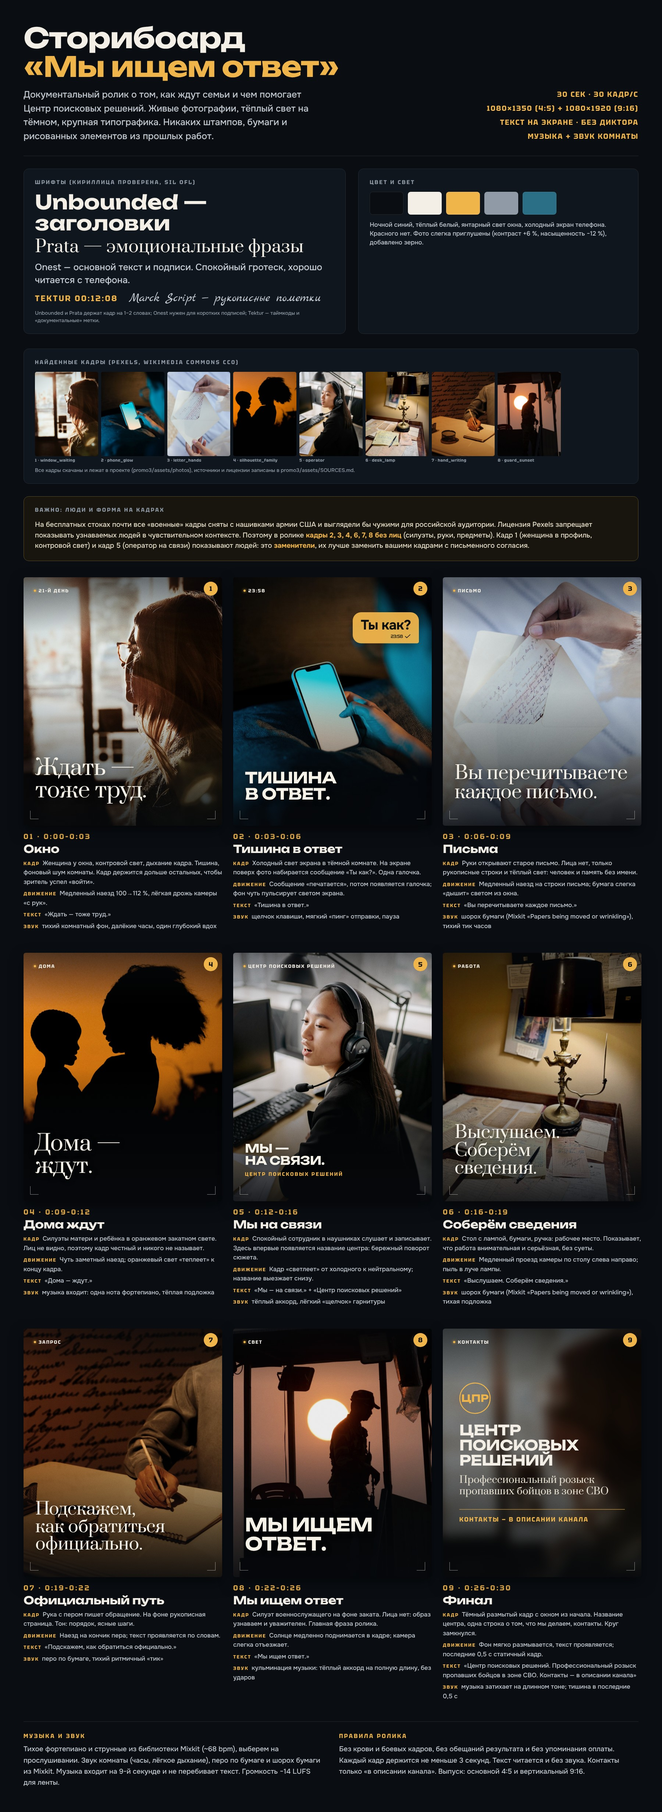
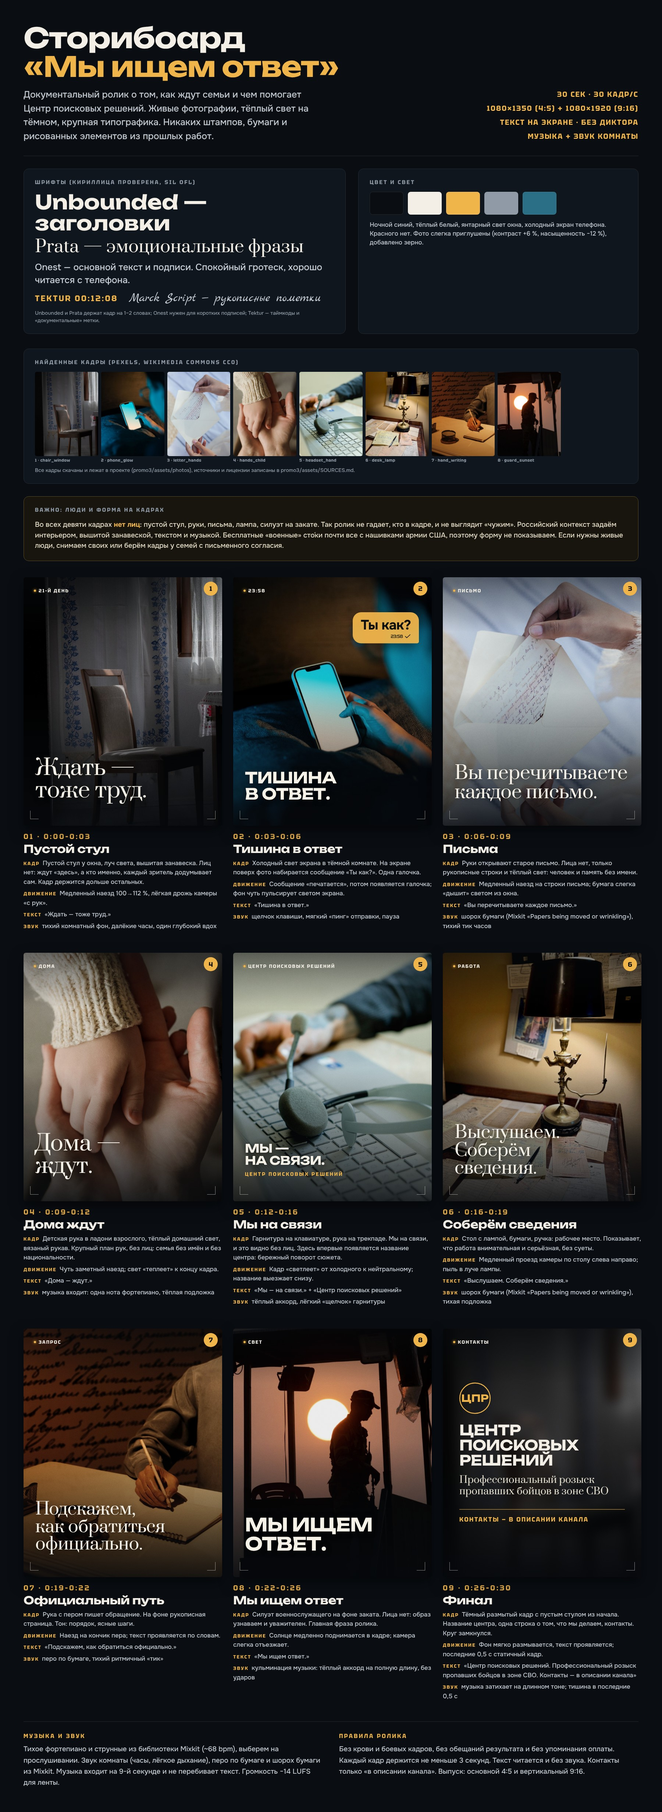
Storyboard v3: all frames faceless (empty chair, hands, headset, letter), sources updated
Claude-Session: https://claude.ai/code/session_01NuJDMPrCwZ36H1xaabvcxP

Changed region(s): [[0.0311, 0.5284, 0.6533, 0.715], [0.0311, 0.1865, 0.8711, 0.4974], [0.6533, 0.715, 0.9956, 0.8704]]

diff --git a/psr-promo/promo3/src/storyboard.html b/psr-promo/promo3/src/storyboard.html
@@ -45,16 +45,16 @@
 <div class="spec">30 СЕК · 30 КАДР/С<br>1080×1350 (4:5) + 1080×1920 (9:16)<br>ТЕКСТ НА ЭКРАНЕ · БЕЗ ДИКТОРА<br>МУЗЫКА + ЗВУК КОМНАТЫ</div></div>
 <div class="row"><div class="pan fonts"><h4>Шрифты (кириллица проверена, SIL OFL)</h4><div class="a">Unbounded — заголовки</div><div class="b">Prata — эмоциональные фразы</div><div class="c">Onest — основной текст и подписи. Спокойный гротеск, хорошо читается с телефона.</div><div class="d"><span>TEKTUR 00:12:08</span><i>Marck Script — рукописные пометки</i></div><div class="fl">Unbounded и Prata держат кадр на 1–2 словах; Onest нужен для коротких подписей; Tektur — таймкоды и «документальные» метки.</div></div>
 <div class="pan"><h4>Цвет и свет</h4><div class="sw"><i style="background:#0a0e13"></i><i style="background:#f3efe6"></i><i style="background:#f0b54a"></i><i style="background:#8f9aa6"></i><i style="background:#2a6f86"></i></div><div class="fl" style="margin-top:0;font-size:17px;color:#c2c9d1">Ночной синий, тёплый белый, янтарный свет окна, холодный экран телефона. Красного нет. Фото слегка приглушены (контраст +6 %, насыщенность −12 %), добавлено зерно.</div></div></div>
-<div class="pan" style="margin-bottom:34px"><h4>Найденные кадры (Pexels, Wikimedia Commons CC0)</h4><div class="th"><div><img src="/promo3/assets/photos/p_window_waiting.jpg"><small>1 · window_waiting</small></div><div><img src="/promo3/assets/photos/p_phone_glow.jpg"><small>2 · phone_glow</small></div><div><img src="/promo3/assets/photos/p_letter_hands.jpg"><small>3 · letter_hands</small></div><div><img src="/promo3/assets/photos/p_silhouette_family.jpg"><small>4 · silhouette_family</small></div><div><img src="/promo3/assets/photos/p_operator.jpg"><small>5 · operator</small></div><div><img src="/promo3/assets/photos/p_desk_lamp.jpg"><small>6 · desk_lamp</small></div><div><img src="/promo3/assets/photos/p_hand_writing.jpg"><small>7 · hand_writing</small></div><div><img src="/promo3/assets/photos/p_guard_sunset.jpg"><small>8 · guard_sunset</small></div></div><div class="fl">Все кадры скачаны и лежат в проекте (promo3/assets/photos), источники и лицензии записаны в promo3/assets/SOURCES.md.</div></div>
-<div class="pan warn" style="margin-bottom:44px"><h4>Важно: люди и форма на кадрах</h4><p>На бесплатных стоках почти все «военные» кадры сняты с нашивками армии США и выглядели бы чужими для российской аудитории. Лицензия Pexels запрещает показывать узнаваемых людей в чувствительном контексте. Поэтому в ролике <b>кадры 2, 3, 4, 6, 7, 8 без лиц</b> (силуэты, руки, предметы). Кадр 1 (женщина в профиль, контровой свет) и кадр 5 (оператор на связи) показывают людей: это <b>заменители</b>, их лучше заменить вашими кадрами с письменного согласия.</p></div>
-<div class="grid"><div class="cell"><div class="fw"><div class="num">1</div><div class="fr"><div class="ph" style="background-image:url(/promo3/assets/photos/p_window_waiting.jpg);background-position:60% 40%"></div><div class="sh"></div><svg class="gr" width="1080" height="1350"><filter id="n1"><feTurbulence type="fractalNoise" baseFrequency=".9" numOctaves="2" seed="1"/><feColorMatrix values="0 0 0 0 .5  0 0 0 0 .5  0 0 0 0 .5  0 0 0 1.4 -.3"/></filter><rect width="100%" height="100%" filter="url(#n1)"/></svg><div class="tc"><i></i>21-Й ДЕНЬ</div><div class="br"></div><div class="tx" style="bottom:130px"><div class="pr">Ждать —<br>тоже труд.</div></div></div></div>
-<div class="tm">01 · 0:00–0:03</div><h3>Окно</h3><p><b>КАДР</b>Женщина у окна, контровой свет, дыхание кадра. Тишина, фоновый шум комнаты. Кадр держится дольше остальных, чтобы зритель успел «войти».</p><p><b>ДВИЖЕНИЕ</b>Медленный наезд 100→112 %, лёгкая дрожь камеры «с рук».</p><p><b>ТЕКСТ</b>«Ждать — тоже труд.»</p><p><b>ЗВУК</b>тихий комнатный фон, далёкие часы, один глубокий вдох</p></div><div class="cell"><div class="fw"><div class="num">2</div><div class="fr"><div class="ph" style="background-image:url(/promo3/assets/photos/p_phone_glow.jpg);background-position:50% 50%"></div><div class="sh"></div><svg class="gr" width="1080" height="1350"><filter id="n2"><feTurbulence type="fractalNoise" baseFrequency=".9" numOctaves="2" seed="2"/><feColorMatrix values="0 0 0 0 .5  0 0 0 0 .5  0 0 0 0 .5  0 0 0 1.4 -.3"/></filter><rect width="100%" height="100%" filter="url(#n2)"/></svg><div class="tc"><i></i>23:58</div><div class="br"></div><div class="bubble" style="top:190px;right:70px">Ты как?<div class="m">23:58 <svg width="34" height="25" viewBox="0 0 34 25" fill="none" stroke="#f0b54a" stroke-width="3.4" stroke-linecap="round" stroke-linejoin="round"><path d="M4 13l8 8L30 4"/></svg></div></div><div class="tx" style="bottom:130px"><div class="ub">Тишина<br>в ответ.</div></div></div></div>
+<div class="pan" style="margin-bottom:34px"><h4>Найденные кадры (Pexels, Wikimedia Commons CC0)</h4><div class="th"><div><img src="/promo3/assets/photos/p_chair_window.jpg"><small>1 · chair_window</small></div><div><img src="/promo3/assets/photos/p_phone_glow.jpg"><small>2 · phone_glow</small></div><div><img src="/promo3/assets/photos/p_letter_hands.jpg"><small>3 · letter_hands</small></div><div><img src="/promo3/assets/photos/p_hands_child.jpg"><small>4 · hands_child</small></div><div><img src="/promo3/assets/photos/p_headset_hand.jpg"><small>5 · headset_hand</small></div><div><img src="/promo3/assets/photos/p_desk_lamp.jpg"><small>6 · desk_lamp</small></div><div><img src="/promo3/assets/photos/p_hand_writing.jpg"><small>7 · hand_writing</small></div><div><img src="/promo3/assets/photos/p_guard_sunset.jpg"><small>8 · guard_sunset</small></div></div><div class="fl">Все кадры скачаны и лежат в проекте (promo3/assets/photos), источники и лицензии записаны в promo3/assets/SOURCES.md.</div></div>
+<div class="pan warn" style="margin-bottom:44px"><h4>Важно: люди и форма на кадрах</h4><p>Во всех девяти кадрах <b>нет лиц</b>: пустой стул, руки, письма, лампа, силуэт на закате. Так ролик не гадает, кто в кадре, и не выглядит «чужим». Российский контекст задаём интерьером, вышитой занавеской, текстом и музыкой. Бесплатные «военные» сто́ки почти все с нашивками армии США, поэтому форму не показываем. Если нужны живые люди, снимаем своих или берём кадры у семей с письменного согласия.</p></div>
+<div class="grid"><div class="cell"><div class="fw"><div class="num">1</div><div class="fr"><div class="ph" style="background-image:url(/promo3/assets/photos/p_chair_window.jpg);background-position:50% 55%"></div><div class="sh"></div><svg class="gr" width="1080" height="1350"><filter id="n1"><feTurbulence type="fractalNoise" baseFrequency=".9" numOctaves="2" seed="1"/><feColorMatrix values="0 0 0 0 .5  0 0 0 0 .5  0 0 0 0 .5  0 0 0 1.4 -.3"/></filter><rect width="100%" height="100%" filter="url(#n1)"/></svg><div class="tc"><i></i>21-Й ДЕНЬ</div><div class="br"></div><div class="tx" style="bottom:130px"><div class="pr">Ждать —<br>тоже труд.</div></div></div></div>
+<div class="tm">01 · 0:00–0:03</div><h3>Пустой стул</h3><p><b>КАДР</b>Пустой стул у окна, луч света, вышитая занавеска. Лиц нет: ждут «здесь», а кто именно, каждый зритель додумывает сам. Кадр держится дольше остальных.</p><p><b>ДВИЖЕНИЕ</b>Медленный наезд 100→112 %, лёгкая дрожь камеры «с рук».</p><p><b>ТЕКСТ</b>«Ждать — тоже труд.»</p><p><b>ЗВУК</b>тихий комнатный фон, далёкие часы, один глубокий вдох</p></div><div class="cell"><div class="fw"><div class="num">2</div><div class="fr"><div class="ph" style="background-image:url(/promo3/assets/photos/p_phone_glow.jpg);background-position:50% 50%"></div><div class="sh"></div><svg class="gr" width="1080" height="1350"><filter id="n2"><feTurbulence type="fractalNoise" baseFrequency=".9" numOctaves="2" seed="2"/><feColorMatrix values="0 0 0 0 .5  0 0 0 0 .5  0 0 0 0 .5  0 0 0 1.4 -.3"/></filter><rect width="100%" height="100%" filter="url(#n2)"/></svg><div class="tc"><i></i>23:58</div><div class="br"></div><div class="bubble" style="top:190px;right:70px">Ты как?<div class="m">23:58 <svg width="34" height="25" viewBox="0 0 34 25" fill="none" stroke="#f0b54a" stroke-width="3.4" stroke-linecap="round" stroke-linejoin="round"><path d="M4 13l8 8L30 4"/></svg></div></div><div class="tx" style="bottom:130px"><div class="ub">Тишина<br>в ответ.</div></div></div></div>
 <div class="tm">02 · 0:03–0:06</div><h3>Тишина в ответ</h3><p><b>КАДР</b>Холодный свет экрана в тёмной комнате. На экране поверх фото набирается сообщение «Ты как?». Одна галочка.</p><p><b>ДВИЖЕНИЕ</b>Сообщение «печатается», потом появляется галочка; фон чуть пульсирует светом экрана.</p><p><b>ТЕКСТ</b>«Тишина в ответ.»</p><p><b>ЗВУК</b>щелчок клавиши, мягкий «пинг» отправки, пауза</p></div><div class="cell"><div class="fw"><div class="num">3</div><div class="fr"><div class="ph" style="background-image:url(/promo3/assets/photos/p_letter_hands.jpg);background-position:50% 40%"></div><div class="sh"></div><svg class="gr" width="1080" height="1350"><filter id="n3"><feTurbulence type="fractalNoise" baseFrequency=".9" numOctaves="2" seed="3"/><feColorMatrix values="0 0 0 0 .5  0 0 0 0 .5  0 0 0 0 .5  0 0 0 1.4 -.3"/></filter><rect width="100%" height="100%" filter="url(#n3)"/></svg><div class="tc"><i></i>ПИСЬМО</div><div class="br"></div><div class="tx" style="bottom:130px"><div class="pr" style="font-size:100px">Вы перечитываете<br>каждое письмо.</div></div></div></div>
-<div class="tm">03 · 0:06–0:09</div><h3>Письма</h3><p><b>КАДР</b>Руки открывают старое письмо. Лица нет, только рукописные строки и тёплый свет: человек и память без имени.</p><p><b>ДВИЖЕНИЕ</b>Медленный наезд на строки письма; бумага слегка «дышит» светом из окна.</p><p><b>ТЕКСТ</b>«Вы перечитываете каждое письмо.»</p><p><b>ЗВУК</b>шорох бумаги (Mixkit «Papers being moved or wrinkling»), тихий тик часов</p></div><div class="cell"><div class="fw"><div class="num">4</div><div class="fr"><div class="ph" style="background-image:url(/promo3/assets/photos/p_silhouette_family.jpg);background-position:50% 40%"></div><div class="sh"></div><svg class="gr" width="1080" height="1350"><filter id="n4"><feTurbulence type="fractalNoise" baseFrequency=".9" numOctaves="2" seed="4"/><feColorMatrix values="0 0 0 0 .5  0 0 0 0 .5  0 0 0 0 .5  0 0 0 1.4 -.3"/></filter><rect width="100%" height="100%" filter="url(#n4)"/></svg><div class="tc"><i></i>ДОМА</div><div class="br"></div><div class="tx" style="bottom:130px"><div class="pr">Дома —<br>ждут.</div></div></div></div>
-<div class="tm">04 · 0:09–0:12</div><h3>Дома ждут</h3><p><b>КАДР</b>Силуэты матери и ребёнка в оранжевом закатном свете. Лиц не видно, поэтому кадр честный и никого не называет.</p><p><b>ДВИЖЕНИЕ</b>Чуть заметный наезд; оранжевый свет «теплеет» к концу кадра.</p><p><b>ТЕКСТ</b>«Дома — ждут.»</p><p><b>ЗВУК</b>музыка входит: одна нота фортепиано, тёплая подложка</p></div><div class="cell"><div class="fw"><div class="num">5</div><div class="fr"><div class="ph" style="background-image:url(/promo3/assets/photos/p_operator.jpg);background-position:50% 30%"></div><div class="sh"></div><svg class="gr" width="1080" height="1350"><filter id="n5"><feTurbulence type="fractalNoise" baseFrequency=".9" numOctaves="2" seed="5"/><feColorMatrix values="0 0 0 0 .5  0 0 0 0 .5  0 0 0 0 .5  0 0 0 1.4 -.3"/></filter><rect width="100%" height="100%" filter="url(#n5)"/></svg><div class="tc"><i></i>ЦЕНТР ПОИСКОВЫХ РЕШЕНИЙ</div><div class="br"></div><div class="tx" style="bottom:130px"><div class="ub" style="font-size:64px">Мы —<br>на связи.</div><div class="sm">Центр поисковых решений</div></div></div></div>
-<div class="tm">05 · 0:12–0:16</div><h3>Мы на связи</h3><p><b>КАДР</b>Спокойный сотрудник в наушниках слушает и записывает. Здесь впервые появляется название центра: бережный поворот сюжета.</p><p><b>ДВИЖЕНИЕ</b>Кадр «светлеет» от холодного к нейтральному; название выезжает снизу.</p><p><b>ТЕКСТ</b>«Мы — на связи.» + «Центр поисковых решений»</p><p><b>ЗВУК</b>тёплый аккорд, лёгкий «щелчок» гарнитуры</p></div><div class="cell"><div class="fw"><div class="num">6</div><div class="fr"><div class="ph" style="background-image:url(/promo3/assets/photos/p_desk_lamp.jpg);background-position:50% 40%"></div><div class="sh"></div><svg class="gr" width="1080" height="1350"><filter id="n6"><feTurbulence type="fractalNoise" baseFrequency=".9" numOctaves="2" seed="6"/><feColorMatrix values="0 0 0 0 .5  0 0 0 0 .5  0 0 0 0 .5  0 0 0 1.4 -.3"/></filter><rect width="100%" height="100%" filter="url(#n6)"/></svg><div class="tc"><i></i>РАБОТА</div><div class="br"></div><div class="tx" style="bottom:130px"><div class="pr" style="font-size:94px">Выслушаем.<br>Соберём<br>сведения.</div></div></div></div>
+<div class="tm">03 · 0:06–0:09</div><h3>Письма</h3><p><b>КАДР</b>Руки открывают старое письмо. Лица нет, только рукописные строки и тёплый свет: человек и память без имени.</p><p><b>ДВИЖЕНИЕ</b>Медленный наезд на строки письма; бумага слегка «дышит» светом из окна.</p><p><b>ТЕКСТ</b>«Вы перечитываете каждое письмо.»</p><p><b>ЗВУК</b>шорох бумаги (Mixkit «Papers being moved or wrinkling»), тихий тик часов</p></div><div class="cell"><div class="fw"><div class="num">4</div><div class="fr"><div class="ph" style="background-image:url(/promo3/assets/photos/p_hands_child.jpg);background-position:50% 50%"></div><div class="sh"></div><svg class="gr" width="1080" height="1350"><filter id="n4"><feTurbulence type="fractalNoise" baseFrequency=".9" numOctaves="2" seed="4"/><feColorMatrix values="0 0 0 0 .5  0 0 0 0 .5  0 0 0 0 .5  0 0 0 1.4 -.3"/></filter><rect width="100%" height="100%" filter="url(#n4)"/></svg><div class="tc"><i></i>ДОМА</div><div class="br"></div><div class="tx" style="bottom:130px"><div class="pr">Дома —<br>ждут.</div></div></div></div>
+<div class="tm">04 · 0:09–0:12</div><h3>Дома ждут</h3><p><b>КАДР</b>Детская рука в ладони взрослого, тёплый домашний свет, вязаный рукав. Крупный план рук, без лиц: семья без имён и без национальности.</p><p><b>ДВИЖЕНИЕ</b>Чуть заметный наезд; свет «теплеет» к концу кадра.</p><p><b>ТЕКСТ</b>«Дома — ждут.»</p><p><b>ЗВУК</b>музыка входит: одна нота фортепиано, тёплая подложка</p></div><div class="cell"><div class="fw"><div class="num">5</div><div class="fr"><div class="ph" style="background-image:url(/promo3/assets/photos/p_headset_hand.jpg);background-position:50% 50%"></div><div class="sh"></div><svg class="gr" width="1080" height="1350"><filter id="n5"><feTurbulence type="fractalNoise" baseFrequency=".9" numOctaves="2" seed="5"/><feColorMatrix values="0 0 0 0 .5  0 0 0 0 .5  0 0 0 0 .5  0 0 0 1.4 -.3"/></filter><rect width="100%" height="100%" filter="url(#n5)"/></svg><div class="tc"><i></i>ЦЕНТР ПОИСКОВЫХ РЕШЕНИЙ</div><div class="br"></div><div class="tx" style="bottom:130px"><div class="ub" style="font-size:64px">Мы —<br>на связи.</div><div class="sm">Центр поисковых решений</div></div></div></div>
+<div class="tm">05 · 0:12–0:16</div><h3>Мы на связи</h3><p><b>КАДР</b>Гарнитура на клавиатуре, рука на трекпаде. Мы на связи, и это видно без лиц. Здесь впервые появляется название центра: бережный поворот сюжета.</p><p><b>ДВИЖЕНИЕ</b>Кадр «светлеет» от холодного к нейтральному; название выезжает снизу.</p><p><b>ТЕКСТ</b>«Мы — на связи.» + «Центр поисковых решений»</p><p><b>ЗВУК</b>тёплый аккорд, лёгкий «щелчок» гарнитуры</p></div><div class="cell"><div class="fw"><div class="num">6</div><div class="fr"><div class="ph" style="background-image:url(/promo3/assets/photos/p_desk_lamp.jpg);background-position:50% 40%"></div><div class="sh"></div><svg class="gr" width="1080" height="1350"><filter id="n6"><feTurbulence type="fractalNoise" baseFrequency=".9" numOctaves="2" seed="6"/><feColorMatrix values="0 0 0 0 .5  0 0 0 0 .5  0 0 0 0 .5  0 0 0 1.4 -.3"/></filter><rect width="100%" height="100%" filter="url(#n6)"/></svg><div class="tc"><i></i>РАБОТА</div><div class="br"></div><div class="tx" style="bottom:130px"><div class="pr" style="font-size:94px">Выслушаем.<br>Соберём<br>сведения.</div></div></div></div>
 <div class="tm">06 · 0:16–0:19</div><h3>Соберём сведения</h3><p><b>КАДР</b>Стол с лампой, бумаги, ручка: рабочее место. Показывает, что работа внимательная и серьёзная, без суеты.</p><p><b>ДВИЖЕНИЕ</b>Медленный проезд камеры по столу слева направо; пыль в луче лампы.</p><p><b>ТЕКСТ</b>«Выслушаем. Соберём сведения.»</p><p><b>ЗВУК</b>шорох бумаги (Mixkit «Papers being moved or wrinkling»), тихая подложка</p></div><div class="cell"><div class="fw"><div class="num">7</div><div class="fr"><div class="ph" style="background-image:url(/promo3/assets/photos/p_hand_writing.jpg);background-position:55% 45%"></div><div class="sh"></div><svg class="gr" width="1080" height="1350"><filter id="n7"><feTurbulence type="fractalNoise" baseFrequency=".9" numOctaves="2" seed="7"/><feColorMatrix values="0 0 0 0 .5  0 0 0 0 .5  0 0 0 0 .5  0 0 0 1.4 -.3"/></filter><rect width="100%" height="100%" filter="url(#n7)"/></svg><div class="tc"><i></i>ЗАПРОС</div><div class="br"></div><div class="tx" style="bottom:130px"><div class="pr" style="font-size:92px">Подскажем,<br>как обратиться<br>официально.</div></div></div></div>
 <div class="tm">07 · 0:19–0:22</div><h3>Официальный путь</h3><p><b>КАДР</b>Рука с пером пишет обращение. На фоне рукописная страница. Тон: порядок, ясные шаги.</p><p><b>ДВИЖЕНИЕ</b>Наезд на кончик пера; текст проявляется по словам.</p><p><b>ТЕКСТ</b>«Подскажем, как обратиться официально.»</p><p><b>ЗВУК</b>перо по бумаге, тихий ритмичный «тик»</p></div><div class="cell"><div class="fw"><div class="num">8</div><div class="fr"><div class="ph" style="background-image:url(/promo3/assets/photos/p_guard_sunset.jpg);background-position:38% 50%"></div><div class="sh"></div><svg class="gr" width="1080" height="1350"><filter id="n8"><feTurbulence type="fractalNoise" baseFrequency=".9" numOctaves="2" seed="8"/><feColorMatrix values="0 0 0 0 .5  0 0 0 0 .5  0 0 0 0 .5  0 0 0 1.4 -.3"/></filter><rect width="100%" height="100%" filter="url(#n8)"/></svg><div class="tc"><i></i>СВЕТ</div><div class="br"></div><div class="tx" style="bottom:130px"><div class="ub" style="font-size:100px">Мы ищем<br>ответ.</div></div></div></div>
-<div class="tm">08 · 0:22–0:26</div><h3>Мы ищем ответ</h3><p><b>КАДР</b>Силуэт военнослужащего на фоне заката. Лица нет: образ узнаваем и уважителен. Главная фраза ролика.</p><p><b>ДВИЖЕНИЕ</b>Солнце медленно поднимается в кадре; камера слегка отъезжает.</p><p><b>ТЕКСТ</b>«Мы ищем ответ.»</p><p><b>ЗВУК</b>кульминация музыки: тёплый аккорд на полную длину, без ударов</p></div><div class="cell"><div class="fw"><div class="num">9</div><div class="fr"><div class="ph bl" style="background-image:url(/promo3/assets/photos/p_window_waiting.jpg);background-position:60% 40%"></div><div class="sh"></div><svg class="gr" width="1080" height="1350"><filter id="n9"><feTurbulence type="fractalNoise" baseFrequency=".9" numOctaves="2" seed="9"/><feColorMatrix values="0 0 0 0 .5  0 0 0 0 .5  0 0 0 0 .5  0 0 0 1.4 -.3"/></filter><rect width="100%" height="100%" filter="url(#n9)"/></svg><div class="tc"><i></i>КОНТАКТЫ</div><div class="br"></div><div class="end"><div class="mk">ЦПР</div><div class="nm">Центр поисковых решений</div><div class="tg">Профессиональный розыск пропавших бойцов в зоне СВО</div><div class="ct">Контакты — в описании канала</div></div></div></div>
-<div class="tm">09 · 0:26–0:30</div><h3>Финал</h3><p><b>КАДР</b>Тёмный размытый кадр с окном из начала. Название центра, одна строка о том, что мы делаем, контакты. Круг замкнулся.</p><p><b>ДВИЖЕНИЕ</b>Фон мягко размывается, текст проявляется; последние 0,5 с статичный кадр.</p><p><b>ТЕКСТ</b>«Центр поисковых решений. Профессиональный розыск пропавших бойцов в зоне СВО. Контакты — в описании канала»</p><p><b>ЗВУК</b>музыка затихает на длинном тоне; тишина в последние 0,5 с</p></div></div>
+<div class="tm">08 · 0:22–0:26</div><h3>Мы ищем ответ</h3><p><b>КАДР</b>Силуэт военнослужащего на фоне заката. Лица нет: образ узнаваем и уважителен. Главная фраза ролика.</p><p><b>ДВИЖЕНИЕ</b>Солнце медленно поднимается в кадре; камера слегка отъезжает.</p><p><b>ТЕКСТ</b>«Мы ищем ответ.»</p><p><b>ЗВУК</b>кульминация музыки: тёплый аккорд на полную длину, без ударов</p></div><div class="cell"><div class="fw"><div class="num">9</div><div class="fr"><div class="ph bl" style="background-image:url(/promo3/assets/photos/p_chair_window.jpg);background-position:50% 55%"></div><div class="sh"></div><svg class="gr" width="1080" height="1350"><filter id="n9"><feTurbulence type="fractalNoise" baseFrequency=".9" numOctaves="2" seed="9"/><feColorMatrix values="0 0 0 0 .5  0 0 0 0 .5  0 0 0 0 .5  0 0 0 1.4 -.3"/></filter><rect width="100%" height="100%" filter="url(#n9)"/></svg><div class="tc"><i></i>КОНТАКТЫ</div><div class="br"></div><div class="end"><div class="mk">ЦПР</div><div class="nm">Центр поисковых решений</div><div class="tg">Профессиональный розыск пропавших бойцов в зоне СВО</div><div class="ct">Контакты — в описании канала</div></div></div></div>
+<div class="tm">09 · 0:26–0:30</div><h3>Финал</h3><p><b>КАДР</b>Тёмный размытый кадр с пустым стулом из начала. Название центра, одна строка о том, что мы делаем, контакты. Круг замкнулся.</p><p><b>ДВИЖЕНИЕ</b>Фон мягко размывается, текст проявляется; последние 0,5 с статичный кадр.</p><p><b>ТЕКСТ</b>«Центр поисковых решений. Профессиональный розыск пропавших бойцов в зоне СВО. Контакты — в описании канала»</p><p><b>ЗВУК</b>музыка затихает на длинном тоне; тишина в последние 0,5 с</p></div></div>
 <div class="ft"><div><h4>МУЗЫКА И ЗВУК</h4>Тихое фортепиано и струнные из библиотеки Mixkit (~68 bpm), выберем на прослушивании. Звук комнаты (часы, лёгкое дыхание), перо по бумаге и шорох бумаги из Mixkit. Музыка входит на 9-й секунде и не перебивает текст. Громкость −14 LUFS для ленты.</div><div><h4>ПРАВИЛА РОЛИКА</h4>Без крови и боевых кадров, без обещаний результата и без упоминания оплаты. Каждый кадр держится не меньше 3 секунд. Текст читается и без звука. Контакты только «в описании канала». Выпуск: основной 4:5 и вертикальный 9:16.</div></div></div></body></html>

diff --git a/psr-promo/promo3/assets/SOURCES.md b/psr-promo/promo3/assets/SOURCES.md
@@ -1,15 +1,13 @@
 # Источники кадров (для сторибоарда)
-Все кадры используются как иллюстративные. Люди на фото не связаны с делами центра.
+Все кадры без лиц, используются как иллюстративные.
 | файл | источник | лицензия |
 |---|---|---|
-| p_window_waiting | Wikimedia Commons «Woman waiting near a window (Unsplash)», автор Caleb George | CC0 |
+| p_chair_window | Pexels #20296460 | Pexels License |
 | p_phone_glow | Pexels #25527040 | Pexels License |
-| p_silhouette_family | Pexels #4430258 | Pexels License |
+| p_letter_hands | Pexels #10660565 | Pexels License |
+| p_hands_child | Pexels #6338775 (Arina Krasnikova) | Pexels License |
+| p_headset_hand | Pexels #7504896 | Pexels License |
 | p_desk_lamp | Pexels #33375682 | Pexels License |
 | p_hand_writing | Pexels #16035592 (Ayşenaz Bilgin) | Pexels License |
-| p_night_writer | Pexels #7063745 | Pexels License |
 | p_guard_sunset | Pexels #3699920 | Pexels License |
-| p_window_phone | Pexels #7269428 | Pexels License |
-| p_operator | Pexels #8867440 | Pexels License |
-| p_letter_hands | Pexels #10660565 | Pexels License |
-Pexels License запрещает показывать узнаваемых людей в негативном/чувствительном контексте и подразумевать их одобрение. Перед финальным выпуском решаем: оставляем только силуэты и руки либо используем собственные согласованные кадры.
+Pexels License разрешает коммерческое использование без подписи. Узнаваемых людей на кадрах нет.
